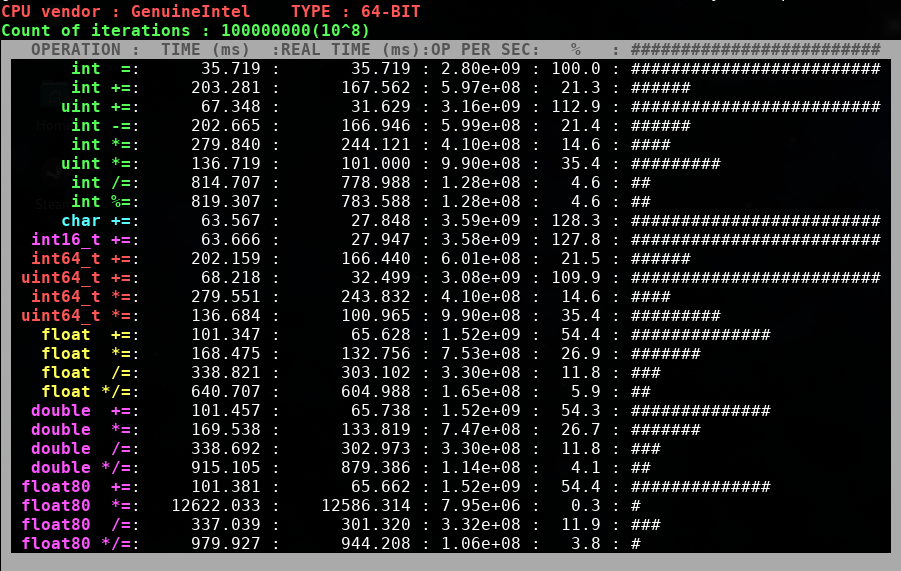
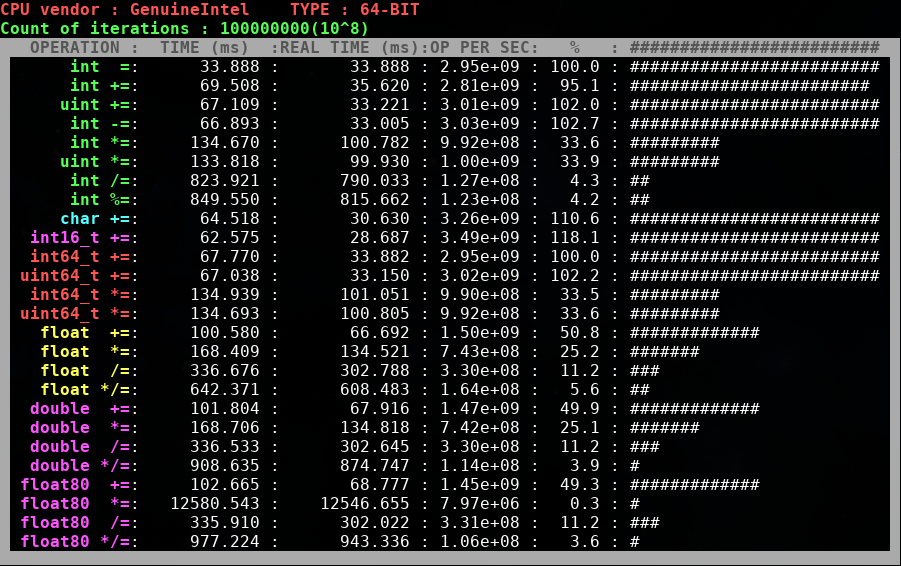
Update report because of changes in sources.
Also replace benchmark results on AMD A10 to results on AMD Sempron 2600

Changed region(s): [[0.0, 0.0, 1.0, 1.0]]

diff --git a/ComputerArchitecture [3d semester]/lab_1_benchmark/report/sourcecode/includes/listoftests.cpp b/ComputerArchitecture [3d semester]/lab_1_benchmark/report/sourcecode/includes/listoftests.cpp
@@ -7,174 +7,173 @@ vector<function<tuple<int, string, double>() > > get_functions_to_test(){
             int x = INIT_VALUE; 
             for(int i = 0; i < COUNT_OF_ITERATIONS; i++)
                 x = i, 
-                x %= MOD;
-            return  {COLORS::GREEN, "int  =", x};
+                x &= MOD_MASK;
+            return  make_tuple(COLORS::GREEN, "int  =", x);
         },
         []() -> tuple<int, string, double> {
             int x = INIT_VALUE; 
             for(int i = 0; i < COUNT_OF_ITERATIONS; i++)
                 x += i,
-                x %= MOD;
-            return  {COLORS::GREEN, "int +=", x};
+                x &= MOD_MASK;
+            return  make_tuple(COLORS::GREEN, "int +=", x);
         },
         []() -> tuple<int, string, double> {
             unsigned int x = INIT_VALUE; 
             for(int i = 0; i < COUNT_OF_ITERATIONS; i++)
                 x += i,
-                x %= MOD;
-            return  {COLORS::GREEN, "uint +=", x};
+                x &= MOD_MASK;
+            return  make_tuple(COLORS::GREEN, "uint +=", x);
         },
         []() -> tuple<int, string, double> {
             int x = INIT_VALUE; 
             for(int i = 0; i < COUNT_OF_ITERATIONS; i++)
                 x -= i,
-                x %= MOD;
-            return {COLORS::GREEN, "int -=", x};
+                x &= MOD_MASK;
+            return make_tuple(COLORS::GREEN, "int -=", x);
         },
         []() -> tuple<int, string, double> {
             int x = INIT_VALUE; 
             for(int i = 1; i <= COUNT_OF_ITERATIONS; i++)
                 x *= i,
-                x %= MOD;
-            return  {COLORS::GREEN, "int *=", x};
+                x &= MOD_MASK;
+            return  make_tuple(COLORS::GREEN, "int *=", x);
         },
         []() -> tuple<int, string, double> {
             unsigned int x = INIT_VALUE; 
             for(int i = 1; i <= COUNT_OF_ITERATIONS; i++)
                 x *= i,
-                x %= MOD;
-            return  {COLORS::GREEN, "uint *=", x};
+                x &= MOD_MASK;
+            return  make_tuple(COLORS::GREEN, "uint *=", x);
         },
         []() -> tuple<int, string, double> {
             int x = INIT_VALUE; 
             for(int i = 1; i <= COUNT_OF_ITERATIONS; i++)
-                x += COUNT_OF_ITERATIONS,
+                x |= MOD_MASK,
                 x /= i;
-            return {COLORS::GREEN, "int /=", x};
+            return make_tuple(COLORS::GREEN, "int /=", x);
         },
         []() -> tuple<int, string, double> {
             int x = INIT_VALUE; 
             for(int i = 1; i <= COUNT_OF_ITERATIONS; i++)
-                x += COUNT_OF_ITERATIONS,
+                x |= MOD_MASK,
                 x %= i;
-            return {COLORS::GREEN, "int %=", x};
+            return make_tuple(COLORS::GREEN, "int %=", x);
         },
         []() -> tuple<int, string, double> {
             char x = 0x3f; 
             for(int i = 0; i < COUNT_OF_ITERATIONS; i++)
-                x += i,
-                x %= MOD;
-            return  {COLORS::CYAN, "char +=", x};
+                x += (i & 0xFF);
+            return  make_tuple(COLORS::CYAN, "char +=", x);
         },
         []() -> tuple<int, string, double> {
             int16_t x = 0x3f; 
             for(int i = 0; i < COUNT_OF_ITERATIONS; i++)
                 x += i,
-                x %= MOD;
-            return  {COLORS::MAGENTA, "int16_t +=", x};
+                x &= MOD_MASK;
+            return  make_tuple(COLORS::MAGENTA, "int16_t +=", x);
         },
         []() -> tuple<int, string, double> {
             int64_t x = INIT_VALUE; 
             for(int i = 1; i <= COUNT_OF_ITERATIONS; i++)
                 x += i,
-                x %= MOD;
-            return {COLORS::RED, "int64_t +=", x};
+                x &= MOD_MASK;
+            return make_tuple(COLORS::RED, "int64_t +=", x);
         },
         []() -> tuple<int, string, double> {
             uint64_t x = INIT_VALUE; 
             for(int i = 1; i <= COUNT_OF_ITERATIONS; i++)
                 x += i,
-                x %= MOD;
-            return {COLORS::RED, "uint64_t +=", x};
+                x &= MOD_MASK;
+            return make_tuple(COLORS::RED, "uint64_t +=", x);
         },
         []() -> tuple<int, string, double> {
             int64_t x = INIT_VALUE; 
             for(int i = 1; i <= COUNT_OF_ITERATIONS; i++)
                 x *= i,
-                x %= MOD;
-            return {COLORS::RED, "int64_t *=", x};
+                x &= MOD_MASK;
+            return make_tuple(COLORS::RED, "int64_t *=", x);
         },
         []() -> tuple<int, string, double> {
             uint64_t x = INIT_VALUE; 
             for(int i = 1; i <= COUNT_OF_ITERATIONS; i++)
                 x *= i,
-                x %= MOD;
-            return {COLORS::RED, "uint64_t *=", x};
+                x &= MOD_MASK;
+            return make_tuple(COLORS::RED, "uint64_t *=", x);
         },
         []() -> tuple<int, string, double> {
             float x = INIT_VALUE; 
             for(int i = 1; i <= COUNT_OF_ITERATIONS; i++)
                 x += i;
-            return {COLORS::YELLOW, "float  +=", x};
+            return make_tuple(COLORS::YELLOW, "float  +=", x);
         },
         []() -> tuple<int, string, double> {
             float x = INIT_VALUE; 
             for(int i = 1; i <= COUNT_OF_ITERATIONS; i++)
                 x *= i;
-            return {COLORS::YELLOW, "float  *=", x};
+            return make_tuple(COLORS::YELLOW, "float  *=", x);
         },
         []() -> tuple<int, string, double> {
             float x = INIT_VALUE; 
             for(int i = 1; i <= COUNT_OF_ITERATIONS; i++)
                 x /= i;
-            return {COLORS::YELLOW, "float  /=", x};
+            return make_tuple(COLORS::YELLOW, "float  /=", x);
         },
         []() -> tuple<int, string, double> {
             float x = INIT_VALUE; 
             for(int i = 1; i <= COUNT_OF_ITERATIONS; i++)
                 x *= i,
                 x /= i;
-            return {COLORS::YELLOW, "float */=", x};
+            return make_tuple(COLORS::YELLOW, "float */=", x);
         },
         []() -> tuple<int, string, double> {
             double x = INIT_VALUE; 
             for(int i = 1; i <= COUNT_OF_ITERATIONS; i++)
                 x += i;
-            return {COLORS::MAGENTA, "double  +=", x};
+            return make_tuple(COLORS::MAGENTA, "double  +=", x);
         },
         []() -> tuple<int, string, double> {
             double x = INIT_VALUE; 
             for(int i = 1; i <= COUNT_OF_ITERATIONS; i++)
                 x *= i;
-            return {COLORS::MAGENTA, "double  *=", x};
+            return make_tuple(COLORS::MAGENTA, "double  *=", x);
         },
         []() -> tuple<int, string, double> {
             double x = INIT_VALUE; 
             for(int i = 1; i <= COUNT_OF_ITERATIONS; i++)
                 x /= i;
-            return {COLORS::MAGENTA, "double  /=", x};
+            return make_tuple(COLORS::MAGENTA, "double  /=", x);
         },
         []() -> tuple<int, string, double> {
             double x = INIT_VALUE; 
             for(int i = 1; i <= COUNT_OF_ITERATIONS; i++)
                 x *= i,
                 x /= i;
-            return {COLORS::MAGENTA, "double */=", x};
+            return make_tuple(COLORS::MAGENTA, "double */=", x);
         },
         []() -> tuple<int, string, double> {
             long double x = INIT_VALUE; 
             for(int i = 1; i <= COUNT_OF_ITERATIONS; i++)
                 x += i;
-            return {COLORS::MAGENTA, "float80  +=", x};
+            return make_tuple(COLORS::MAGENTA, "float80  +=", x);
         },
         []() -> tuple<int, string, double> {
             long double x = INIT_VALUE; 
             for(int i = 1; i <= COUNT_OF_ITERATIONS; i++)
                 x *= i;
-            return {COLORS::MAGENTA, "float80  *=", x};
+            return make_tuple(COLORS::MAGENTA, "float80  *=", x);
         },
         []() -> tuple<int, string, double> {
             long double x = INIT_VALUE; 
             for(int i = 1; i <= COUNT_OF_ITERATIONS; i++)
                 x /= i;
-            return {COLORS::MAGENTA, "float80  /=", x};
+            return make_tuple(COLORS::MAGENTA, "float80  /=", x);
         },
         []() -> tuple<int, string, double> {
             long double x = INIT_VALUE; 
             for(int i = 1; i <= COUNT_OF_ITERATIONS; i++)
                 x *= i,
                 x /= i;
-            return {COLORS::MAGENTA, "float80 */=", x};
+            return make_tuple(COLORS::MAGENTA, "float80 */=", x);
         },
     };
 }

diff --git a/ComputerArchitecture [3d semester]/lab_1_benchmark/report/sections/results.tex b/ComputerArchitecture [3d semester]/lab_1_benchmark/report/sections/results.tex
@@ -1,18 +1,18 @@
 \section{Результати роботи та аналіз}
 
-Тестування проводилось під Linux-based операційними системами на двох ПК. Перший ПК мав процесор Intel i5-2400 з заявленною тактовою частотою 3,1 ГГц. Другий ПК мав процесор AMD A10-6790K з заявленною тактовою частотою 4 ГГц. 
+Тестування проводилось під Linux-based операційними системами на двох ПК. Перший ПК мав процесор Intel i5-2400 з заявленною тактовою частотою 3,1 ГГц. Другий ПК мав процесор AMD Sempron 2800+ з заявленною тактовою частотою 1,6 ГГц. 
 
 Спершу розглянемо результати роботи бенчмарку при компіляції у 64-бітному режимі на ПК з процесором Intel:
 
 \includegraphics[width = 16cm]{img/intel64.png}
 
-Помітимо деякі цікаві моменти. По-перше, використання беззнакового цілочисельного типу пришвидшує виконання операцій у цілих 6 разів! По-друге, використання 8-ми або 16-бітних цілочисельних типів також дає приріст швидкості у 7 разів. По-третє, різниці у виконанні операцій над 64-бітними і 32-бітними цілими числами немає. 
+Як і очікувалось, різниці у часі між операціями над 64-бітними та 32-бітними цілочисельними типами даних немає.
 
 Порівняємо з результатами роботи бенчмарку у 32-бітному режимі:
 
 \includegraphics[width = 16cm]{img/intel32.png}
 
-Бачимо, що операції над 64-бітними цілими стали коштувати приблизно вдвічі дорожче відносно 64-бітних цілих. Дуже неприємним моментом є погіршення опрацювання операції множення над дійсними числами. На це є дві причини. Першу причину можна помітити, проаналізувавши результати "просто множення" і "множення + ділення" над дійсними типами данних.  В данному бенчмарку є особливість - при множенні, починаючи з деякої ітерації ми отримуємо у змінній значення inf (через недосконалість збереження данних у цих типах даних). Через це страждає виконанн операції множення (тому що обробка "нескінченності" як окремого випадку займає додаткові ресурси процесора). 
+Бачимо, що операції над 64-бітними цілими стали коштувати приблизно вдвічі дорожче відносно 32-бітних цілих. Дуже неприємним моментом є погіршення опрацювання операції множення над дійсними числами. На це є дві причини. Першу причину можна помітити, проаналізувавши результати "просто множення" і "множення + ділення" над дійсними типами данних.  В данному бенчмарку є особливість - при множенні, починаючи з деякої ітерації ми отримуємо у змінній значення inf (через недосконалість збереження данних у цих типах даних). Через це страждає виконанн операції множення (тому що обробка "нескінченності" як окремого випадку займає додаткові ресурси процесора). 
 Друга причина криється в особливостях компіляції. Проаналізуємо згенерований асемблерний код.
 
 Ліворуч - вихідний текст на C++, по центру - згенерований код у випадку компіляції з прапорцем -m32, праворуч - у випадку компіляції з прапорцем -m64. 
@@ -28,16 +28,12 @@
 
 \includegraphics[width = 16cm]{img/amd64.png}
 
-Якщо порівнювати з Intel, то процесор AMD (судячи з бенчмарку) страждає від повільного копіювання (майже вдвічі гірше, ніж у Intel), а також у цілому гірше працює з дійсними типами даних. Якщо бути точнішим, додавання і множення виконується значно гірше для 32- та 64-бітних типів даних. Утім, ділення 32- та 64-бітних дійсних виконується швидше. Ще однією особливістю є швидка робота з 8-бітними цілими (швидше ніж просте копіювання 32-бітних цілих). 
+Якщо порівнювати з Intel, то процесор від AMD очевидно по-іншому діє з операціями над типами даних. У той час, коли у Intel операція \textbf{"int +="} займає приблизно вдвічі більше часу, ніж операція \textbf{"int ="}, то з в AMD ці дві операції майже однакові по часу. Можливо, процесор від інтел розділяє операцію  \textbf{"int +="} на дві, а AMD робить усе "на місці". 
 
 Проаналізуємо також виконання бенчмарку з прапорцем -m32.
 
-Помітна значна деградація швидкодії при роботі з 64-бітними знаковими цілими і помірна деградація при роботі з дійсними типами даних. Крім того, помітний значний приріст швидкодії з 16-бітними цілими (з одночасною деградацією швидкодії з 8-бітними цілими).
-
-(Скріншот результатів бенчмарку наведено на наступній сторінці).
-
 \includegraphics[width = 16cm]{img/amd32.png}
  
-
+Помітна деградація у два рази в операціях над 64-бітними цілими, але загалом усе досить природньо (і немає неприємних особливостей при роботі з \textbf{INF} у дійсних типах, як у Intel).
 
 

diff --git a/ComputerArchitecture [3d semester]/lab_1_benchmark/report/sourcecode/includes/benchmark.cpp b/ComputerArchitecture [3d semester]/lab_1_benchmark/report/sourcecode/includes/benchmark.cpp
@@ -81,7 +81,7 @@ void print_service_info(ostream & cout){
 }
 
 void print_last_row(ostream & cout){
-    cout << TEXT::CORNER<90>() << endl;
+    cout << TEXT::CORNER<94>() << endl;
 }
 
 
@@ -91,7 +91,7 @@ void print_first_row(ostream & cout){
     "  TIME (ms)  :"
     "REAL TIME (ms):"
     "OP PER SEC:"
-    "   %   :"
+    "     %     :"
     " " 
     << TEXT::perfomance_line(MAX_COUNT_OF_MARKS, 0) 
     << "  "
@@ -137,7 +137,7 @@ void print_row(
         << setw(9)
         << setprecision(2) <<  (scientific) <<  operations_per_second
         << " : "
-        << setprecision(1) << (fixed) << setw(5)
+        << setprecision(1) << (fixed) << setw(9)
         << percent
         << " : "
         << TEXT::perfomance_line(perfomance, MAX_COUNT_OF_MARKS - perfomance)

diff --git a/ComputerArchitecture [3d semester]/lab_1_benchmark/report/sourcecode/includes/listoftests.h b/ComputerArchitecture [3d semester]/lab_1_benchmark/report/sourcecode/includes/listoftests.h
@@ -12,8 +12,10 @@ using namespace std;
 #endif
 
 #ifndef MOD
-    #define MOD (16 * 16 * 16 * 16)
+    #define MOD (1 << 30)
 #endif
+
+#define MOD_MASK (MOD - 1)
 
 #ifndef INIT_VALUE
     #define INIT_VALUE (11323)
